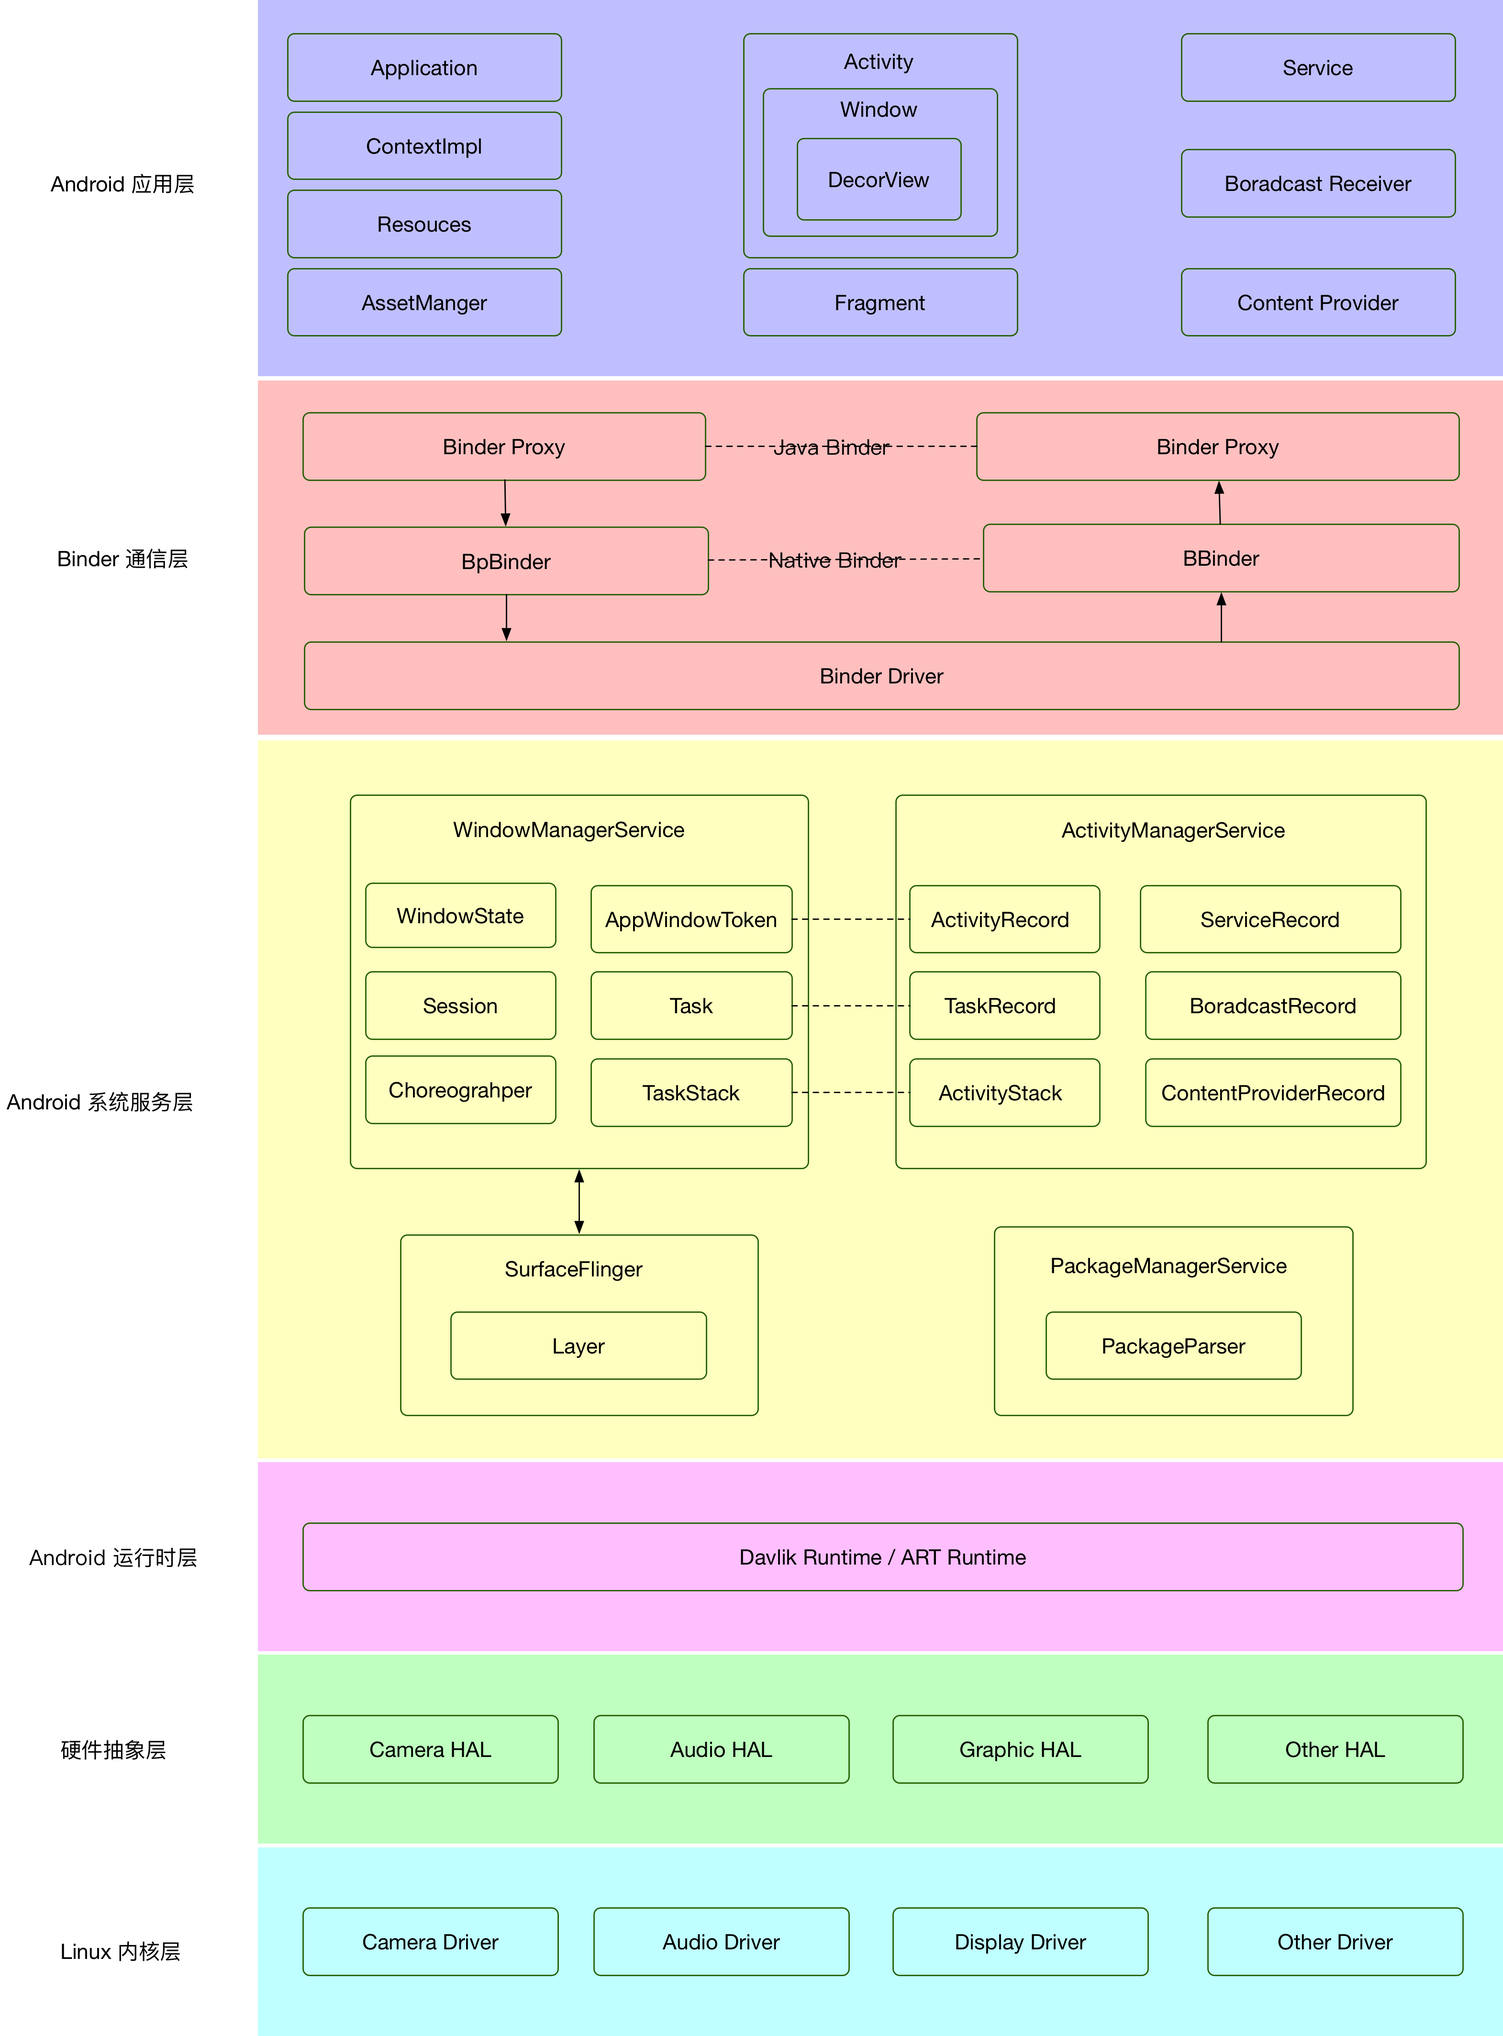
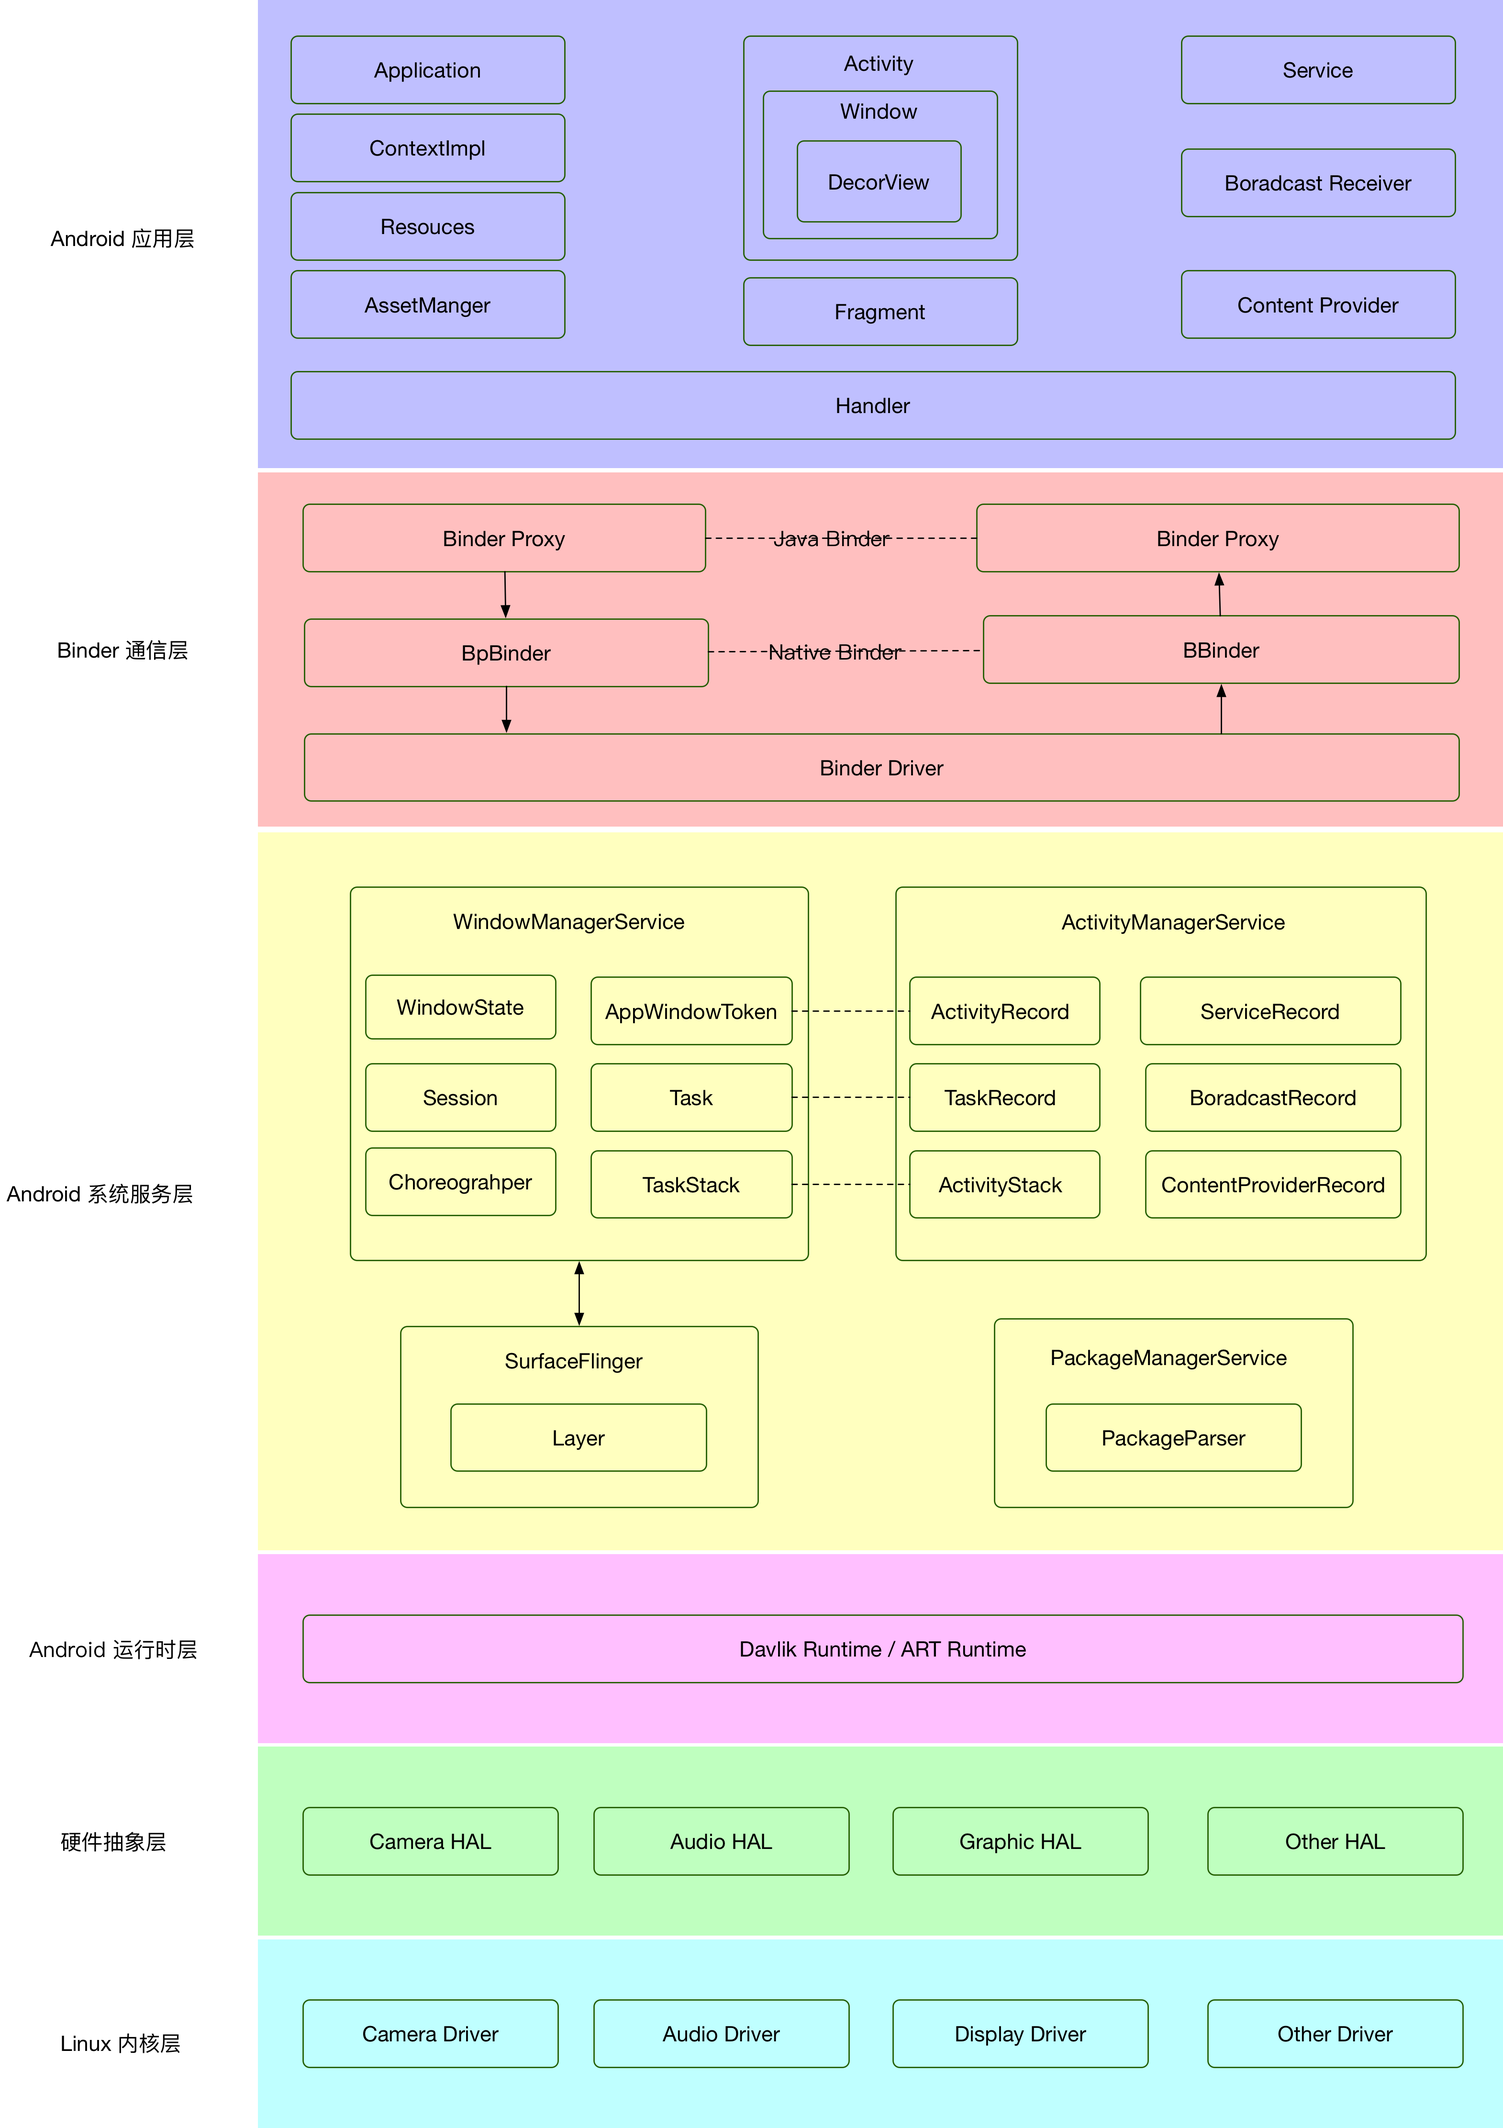
document: update project

diff --git a/README.md b/README.md
@@ -9,15 +9,15 @@
 
 BeesAndroid开源技术小组正式成立啦，Bees，即蜜蜂，取义分享、合作与奉献的意思，这也是BeesAndroid小组的宗旨，我们第一个团体项目BeesAndroid也于2018年3月6日同步上线，该项目的前
 身是[android-open-source-project-analysis](https://github.com/guoxiaoxing/android-open-source-project-analysis)，这个项目提供了一系列的Android系统源码分析文章，收
-到了良好的反馈，但是一个人的力量是有限的，因此将其推成团体项目BeesAndroid，项目采用GPL协议，在保护作者知识产权的基础上，最大化的做到开源与开放，如果有什么问题和意见欢迎提交issue，也
-欢迎大家参与到本项目中来。
+到了良好的反馈。
+
+但是一个人的力量是有限的，因此将其推成团体项目BeesAndroid，项目采用GPL协议，在保护作者知识产权的基础上，最大化的做到开源与开放，如果有什么问题和意见欢迎提交issue，也欢迎大家参与
+到本项目中来。
 
 > BeesAndroid项目旨在通过提供一系列的工具与方法，降低阅读系统源码的门槛，帮助更多的Android工程师理解Andriod系统，掌握Android系统。
 
 - [Blog](https://juejin.im/user/5a9e5b95518825558b3d6e22/posts)
 - [GitBook](https://www.gitbook.com/book/beesandroid/beesandroid/welcome)
-
-第一次阅览本系列文章，请参见[导读](https://github.com/BeesAndroid/BeesAndroid/blob/master/doc/导读.md)，更多文章请参见[文章目录](https://github.com/BeesAndroid/BeesAndroid/blob/master/README.md)。
 
 - [Git repositories on android](https://android.googlesource.com/)
 - [Android Open Source Project](https://source.android.com/)
@@ -69,91 +69,109 @@ Android系统架构图
 
 - [导读](https://github.com/BeesAndroid/BeesAndroid/blob/master/doc/导读.md)
 
-## Android系统应用框架篇
+## 原理篇
+
+### 应用框架层
 
 **Android窗口管理框架**
 
-- [01Android窗口管理框架：Android窗口管理框架概述](https://github.com/BeesAndroid/BeesAndroid/blob/master/doc/Android系统应用框架篇/Android窗口管理框架/01Android窗口管理框架：Android窗口管理框架概述.md)
-- [02Android窗口管理框架：Android应用视图的载体View](https://github.com/BeesAndroid/BeesAndroid/blob/master/doc/Android系统应用框架篇/Android窗口管理框架/02Android窗口管理框架：Android应用视图载体View.md)
-- [03Android窗口管理框架：Android应用视图的管理者Window](https://github.com/BeesAndroid/BeesAndroid/blob/master/doc/Android系统应用框架篇/Android窗口管理框架/03Android窗口管理框架：Android应用视图管理者Window.md)
-- [04Android窗口管理框架：Android应用窗口管理服务WindowServiceManager](https://github.com/BeesAndroid/BeesAndroid/blob/master/doc/Android系统应用框架篇/Android窗口管理框架/04Android窗口管理框架：Android应用窗口管理服务WindowServiceManager.md)
-- [05Android窗口管理框架：Android布局解析者LayoutInflater](https://github.com/BeesAndroid/BeesAndroid/blob/master/doc/Android系统应用框架篇/Android窗口管理框架/05Android窗口管理框架：Android布局解析者LayoutInflater.md)
-- [06Android窗口管理框架：Android列表控件RecyclerView](https://github.com/BeesAndroid/BeesAndroid/blob/master/doc/Android系统应用框架篇/Android窗口管理框架/06Android窗口管理框架：Android列表控件RecyclerView.md)
+- Android窗口管理框架：Android窗口管理框架概述
+- Android窗口管理框架：Android应用视图的载体View
+- Android窗口管理框架：Android应用视图的管理者Window
+- Android窗口管理框架：Android应用窗口管理服务WindowServiceManager
+- Android窗口管理框架：Android布局解析者LayoutInflater
+- Android窗口管理框架：Android列表控件RecyclerView
 
 **Android组件管理框架**
 
-- [01Android组件管理框架：Android组件管理框架概述](https://github.com/BeesAndroid/BeesAndroid/blob/master/doc/Android系统应用框架篇/Android组件管理框架/01Android组件管理框架：组件管理框架概述.md)
-- [02Android组件管理框架：Android组件管理服务ActivityServiceManager](https://github.com/BeesAndroid/BeesAndroid/blob/master/doc/Android系统应用框架篇/Android组件管理框架/02Android组件管理框架：Android组件管理服务ActivityServiceManager.md)
-- [03Android组件管理框架：Android视图容器Activity](https://github.com/BeesAndroid/BeesAndroid/blob/master/doc/Android系统应用框架篇/Android组件管理框架/03Android组件管理框架：Android视图容器Activity.md)
-- [04Android组件管理框架：Android视图片段Fragment](https://github.com/BeesAndroid/BeesAndroid/blob/master/doc/Android系统应用框架篇/Android组件管理框架/04Android组件管理框架：Android视图片段Fragment.md)
-- [05Android组件管理框架：Android后台服务Service](https://github.com/BeesAndroid/BeesAndroid/blob/master/doc/Android系统应用框架篇/Android组件管理框架/05Android组件管理框架：Android后台服务Service.md)
-- [06Android组件管理框架：Android内容提供者ContentProvider](https://github.com/BeesAndroid/BeesAndroid/blob/master/doc/Android系统应用框架篇/Android组件管理框架/06Android组件管理框架：Android内容提供者ContentProvider.md)
-- [07Android组件管理框架：Android广播接收者BroadcastReceiver](https://github.com/BeesAndroid/BeesAndroid/blob/master/doc/Android系统应用框架篇/Android组件管理框架/07Android组件管理框架：Android广播接收者BroadcastReceiver.md)
-- [08Android组件管理框架：Android应用上下文Context](https://github.com/BeesAndroid/BeesAndroid/blob/master/doc/Android系统应用框架篇/Android组件管理框架/08Android组件管理框架：Android应用上下文Context.md)
+- Android组件管理框架：Android组件管理框架概述
+- Android组件管理框架：Android组件管理服务ActivityServiceManager
+- Android组件管理框架：Android视图容器Activity
+- Android组件管理框架：Android视图片段Fragment
+- Android组件管理框架：Android后台服务Service
+- Android组件管理框架：Android内容提供者ContentProvider
+- Android组件管理框架：Android广播接收者BroadcastReceiver
+- Android组件管理框架：Android应用上下文Context
 
 **Android包管理框架**
 
-- [01Android包管理框架：APK的打包流程](https://github.com/BeesAndroid/BeesAndroid/blob/master/doc/Android系统应用框架篇/Android包管理框架/01Android包管理框架：APK的打包流程.md)
-- [02Android包管理框架：APK的安装流程](https://github.com/BeesAndroid/BeesAndroid/blob/master/doc/Android系统应用框架篇/Android包管理框架/02Android包管理框架：APK的安装流程.md)
-- [03Android包管理框架：APK的加载流程](https://github.com/BeesAndroid/BeesAndroid/blob/master/doc/Android系统应用框架篇/Android包管理框架/03Android包管理框架：APK的加载流程.md)
+- Android包管理框架：APK的打包流程
+- Android包管理框架：APK的安装流程
+- Android包管理框架：APK的加载流程
 
 **Android资源管理框架**
 
-- [01Android资源管理框架：资源管理器AssetManager](https://github.com/BeesAndroid/BeesAndroid/blob/master/doc/Android系统应用框架篇/Android资源管理管理框架/01Android资源管理框架：资源管理器AssetManager.md)
+- Android资源管理框架：资源管理器AssetManager
 
-## Android系统底层框架篇
+**Android线程通信框架**
 
-**Android进程框架**
+- Android线程通信框架：Handler
 
-- [01Android进程框架：进程的创建、启动与调度流程](https://github.com/BeesAndroid/BeesAndroid/blob/master/doc/Android系统底层框架篇/Android进程框架/01Android进程框架：进程的创建、启动与调度流程.md)
-- [02Android进程框架：线程与线程池](https://github.com/BeesAndroid/BeesAndroid/blob/master/doc/Android系统底层框架篇/Android进程框架/02Android进程框架：线程与线程池.md)
-- [03Android进程框架：线程通信的桥梁Handler](https://github.com/BeesAndroid/BeesAndroid/blob/master/doc/Android系统底层框架篇/Android进程框架/03Android进程框架：线程通信的桥梁Handler.md)
-- [04Android进程框架：进程通信的桥梁Binder](https://github.com/BeesAndroid/BeesAndroid/blob/master/doc/Android系统底层框架篇/Android进程框架/04Android进程框架：进程通信的桥梁Binder.md)
-- [05Android进程框架：进程通信的桥梁Socket](https://github.com/BeesAndroid/BeesAndroid/blob/master/doc/Android系统底层框架篇/Android进程框架/05Android进程框架：进程通信的桥梁Socket.md)
+### 进程通信层
 
-**Android内存框架**
+**Binder进程通信框架**
 
-- [01Android内存框架：内存管理系统](https://github.com/BeesAndroid/BeesAndroid/blob/master/doc/Android系统底层框架篇/Android内存框架/01Android内存框架：内存管理系统.md)
-- [02Android内存框架：Ashmem匿名共享内存系统](https://github.com/BeesAndroid/BeesAndroid/blob/master/doc/Android系统底层框架篇/Android内存框架/02Android内存框架：Ashmem匿名共享内存系统.md)
+- Binder进程通信框架：服务管理器ServiceManager
+- Binder进程通信框架：BpBinder与BBinder
+- Binder进程通信框架：Binder驱动
+
+**Socket进程通信框架**
+
+- Socket进程通信框架：Socket
+
+### 系统服务层
+
+### Android运行时层
 
 **Android虚拟机框架**
 
-- [01Android虚拟机框架：Java类加载机制](https://github.com/BeesAndroid/BeesAndroid/blob/master/doc/Android系统底层框架篇/Android虚拟机框架/01Android虚拟机框架：Java类加载机制.md)
+- Android虚拟机框架：Java类加载机制
 
-## Android应用开发实践篇
+### 硬件抽象层
+
+### Linux内核层
+
+**Android进程框架**
+
+- Android进程框架：进程的创建、启动与调度流程
+- Android进程框架：线程与线程池
+
+**Android内存框架**
+
+- Android内存框架：内存管理系统
+- Android内存框架：Ashmem匿名共享内存系统
+
+## 实践篇
 
 **Android界面开发**
 
-- [01Android界面开发：View自定义实践概览](https://github.com/BeesAndroid/BeesAndroid/blob/master/doc/Android应用开发实践篇/Android界面开发/01Android界面开发：View自定义实践概览.md)
-- [02Android界面开发：View自定义实践布局篇](https://github.com/BeesAndroid/BeesAndroid/blob/master/doc/Android应用开发实践篇/Android界面开发/02Android界面开发：View自定义实践布局篇.md)
-- [03Android界面开发：View自定义实践绘制篇](https://github.com/BeesAndroid/BeesAndroid/blob/master/doc/Android应用开发实践篇/Android界面开发/03Android界面开发：View自定义实践绘制篇.md)
-- [04Android界面开发：View自定义实践交互篇](https://github.com/BeesAndroid/BeesAndroid/blob/master/doc/Android应用开发实践篇/Android界面开发/04Android界面开发：View自定义实践交互篇.md)
+- Android界面开发：View自定义实践概览
+- Android界面开发：View自定义实践布局篇
+- Android界面开发：View自定义实践绘制篇
+- Android界面开发：View自定义实践交互篇
 
 **Android应用优化**
 
-- [01Android应用优化：优化概述](https://github.com/BeesAndroid/BeesAndroid/blob/master/doc/Android应用开发实践篇/Android应用优化/01Android应用优化：优化概述.md)
-- [02Android应用优化：启动优化](https://github.com/BeesAndroid/BeesAndroid/blob/master/doc/Android应用开发实践篇/Android应用优化/02Android应用优化：启动优化.md)
-- [03Android应用优化：界面优化](https://github.com/BeesAndroid/BeesAndroid/blob/master/doc/Android应用开发实践篇/Android应用优化/03Android应用优化：界面优化.md)
-- [04Android应用优化：内存优化](https://github.com/BeesAndroid/BeesAndroid/blob/master/doc/Android应用开发实践篇/Android应用优化/04Android应用优化：内存优化.md)
-- [05Android应用优化：图像优化](https://github.com/BeesAndroid/BeesAndroid/blob/master/doc/Android应用开发实践篇/Android应用优化/05Android应用优化：图像优化.md)
-- [06Android应用优化：网络优化](https://github.com/BeesAndroid/BeesAndroid/blob/master/doc/Android应用开发实践篇/Android应用优化/06Android应用优化：网络优化.md)
-- [07Android应用优化：并发优化](https://github.com/BeesAndroid/BeesAndroid/blob/master/doc/Android应用开发实践篇/Android应用优化/07Android应用优化：并发优化.md)
-- [08Android应用优化：优化工具](https://github.com/BeesAndroid/BeesAndroid/blob/master/doc/Android应用开发实践篇/Android应用优化/08Android应用优化：优化工具.md)
+- Android应用优化：优化概述
+- Android应用优化：启动优化
+- Android应用优化：界面优化
+- Android应用优化：内存优化
+- Android应用优化：图像优化
+- Android应用优化：网络优化
+- Android应用优化：并发优化
+- Android应用优化：优化工具
 
 **Android媒体开发**
 
-- [01Android媒体开发：Bitmap实践指南](https://github.com/BeesAndroid/BeesAndroid/blob/master/doc/Android应用开发实践篇/Android媒体开发/01Android媒体开发：Bitmap实践指南.md)
-- [02Android媒体开发：Camera实践指南](https://github.com/BeesAndroid/BeesAndroid/blob/master/doc/Android应用开发实践篇/Android媒体开发/02Android媒体开发：Camera实践指南.md)
+- Android媒体开发：Bitmap实践指南
+- Android媒体开发：Camera实践指南
 
 **其他**
 
-- [01Android混合编程：WebView实践](https://github.com/BeesAndroid/BeesAndroid/blob/master/doc/Android应用开发实践篇/其他/01Android混合编程：WebView实践.md)
-- [02Android网络编程：网络编程实践](https://github.com/BeesAndroid/BeesAndroid/blob/master/doc/Android应用开发实践篇/其他/02Android网络编程：网络编程实践.md)
-
-## Android系统软件设计篇
-
-- [01Android系统软件设计篇：软件设计原则](https://github.com/BeesAndroid/BeesAndroid/blob/master/doc/Android系统软件设计篇/01Android系统软件设计篇：软件设计原则.md)
-- [02Android系统软件设计篇：设计模式](https://github.com/BeesAndroid/BeesAndroid/blob/master/doc/Android系统软件设计篇/02Android系统软件设计篇：设计模式.md)
+- Android混合编程：WebView实践]
+- Android网络编程：网络编程实践]
+- Android系统设计：软件设计原则]
+- Android系统设计：设计模式]
 
 > 欢迎关注我们的微信公众号，新文章会第一时间发布到掘金博客与微信公众平台，我们也有自己的交流群，下方是QQ交流群，微信群已满，可以加我微信 allenwells 邀请入群。
 
